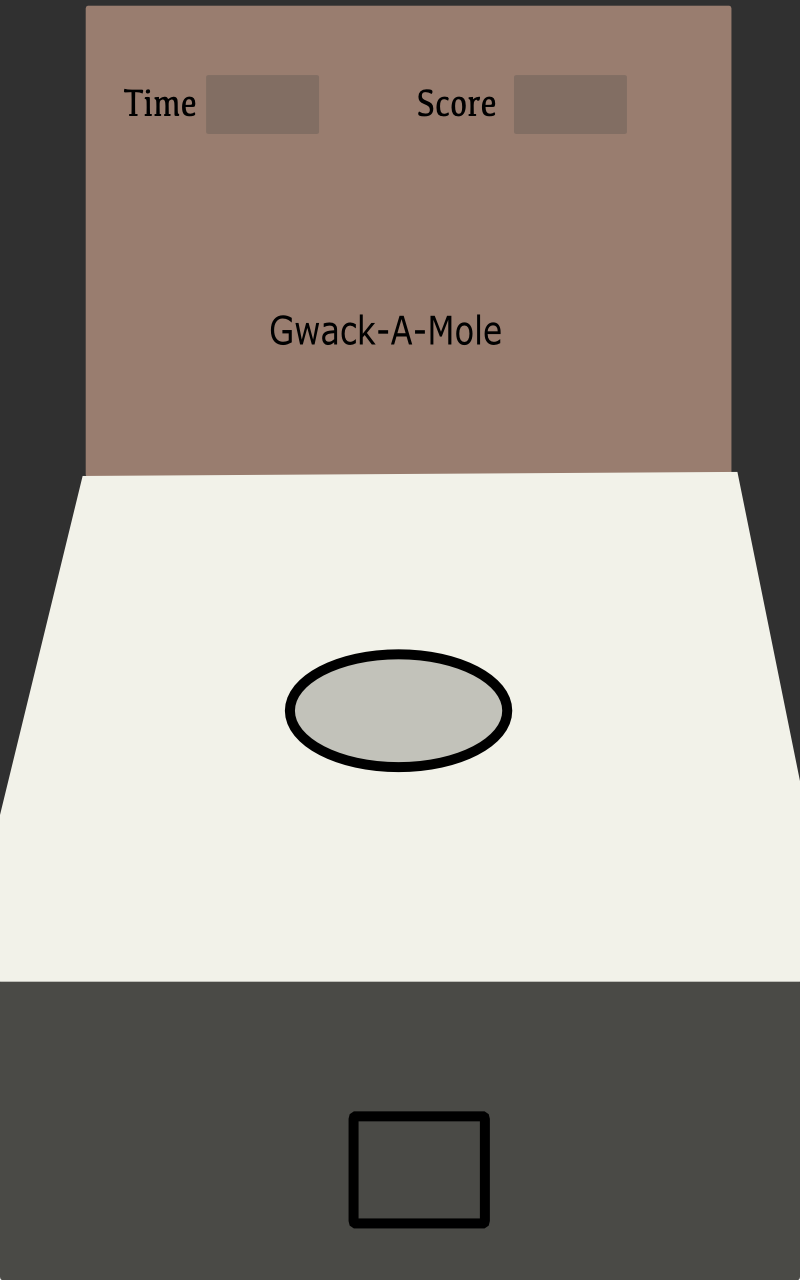
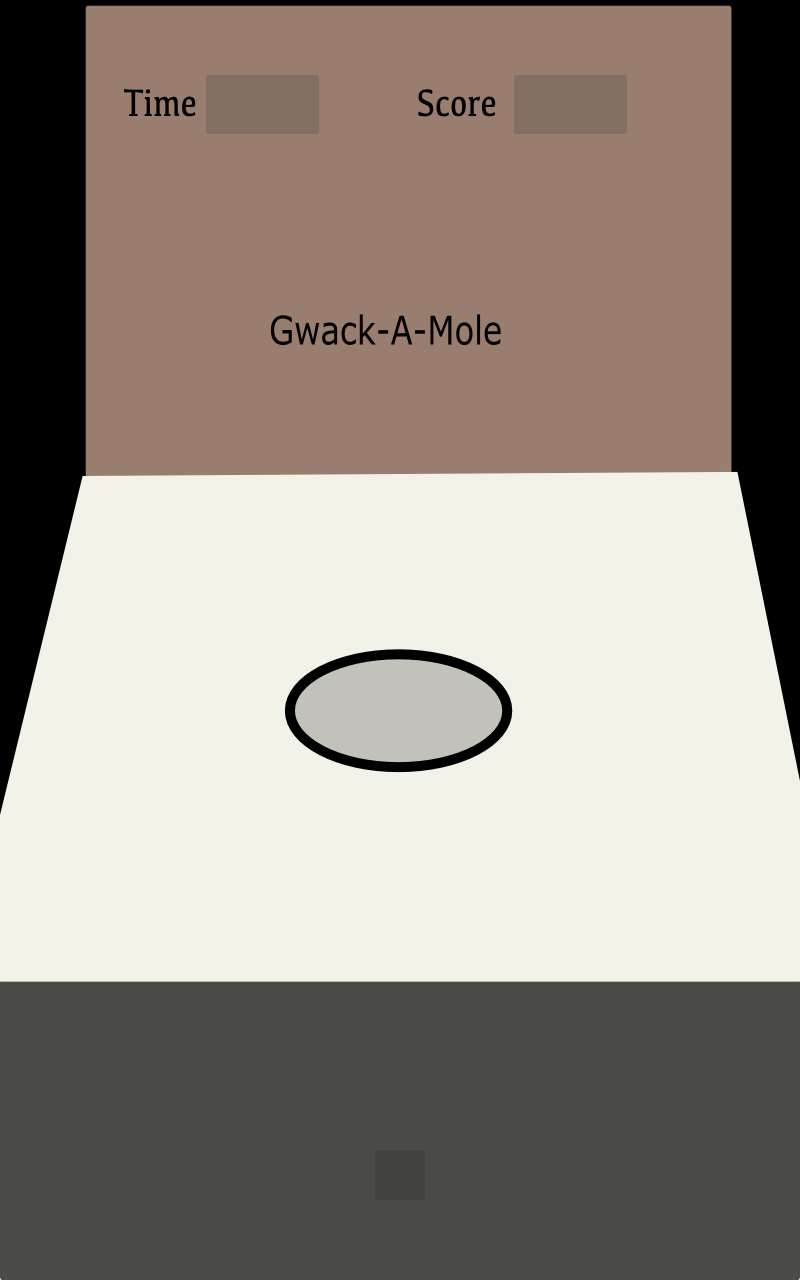
Small update

Changed region(s): [[0.0, 0.0, 1.0, 0.625], [0.4375, 0.8438, 0.625, 0.9688]]

diff --git a/js/Button.js b/js/Button.js
@@ -8,10 +8,10 @@ function Button( pixiStage, mole ){
   // create pixi object for button 
   var button = new PIXI.Sprite(t.off); 
   button.buttonMode = true;
-  button.anchor.x = 0.5;
-  button.anchor.y = 0.5;
-  button.position.x = 50;
-  button.position.y = 50;
+  button.anchor.x = 0;
+  button.anchor.y = 0;
+  button.position.x = 375;
+  button.position.y = 1120;
   button.interactive = true;
 
   button.mousedown = button.touchstart = function(){
@@ -23,8 +23,6 @@ function Button( pixiStage, mole ){
     mole.rise();
     this.setTexture(t.off);
   }
-
-
 
   // Add to pixi
 
